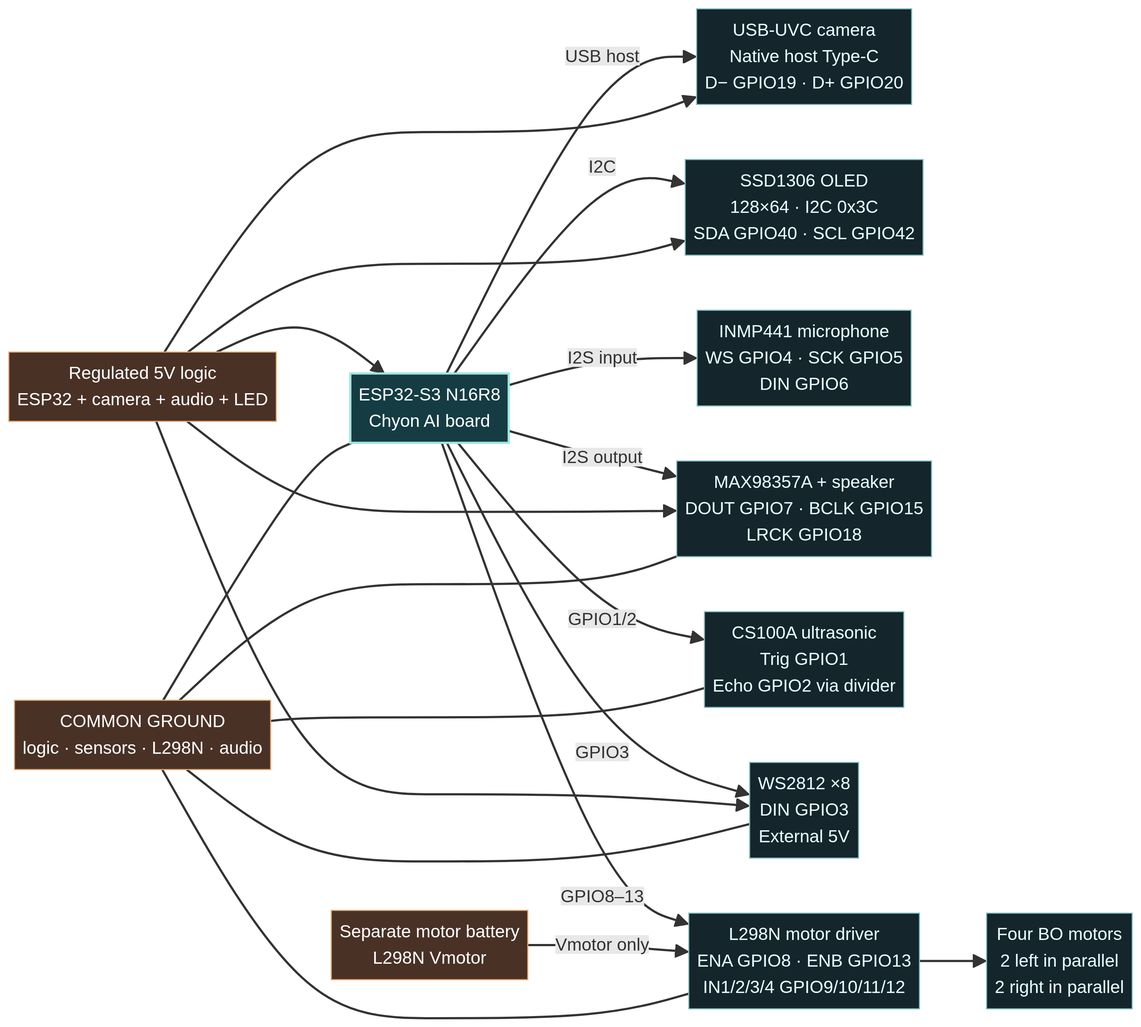
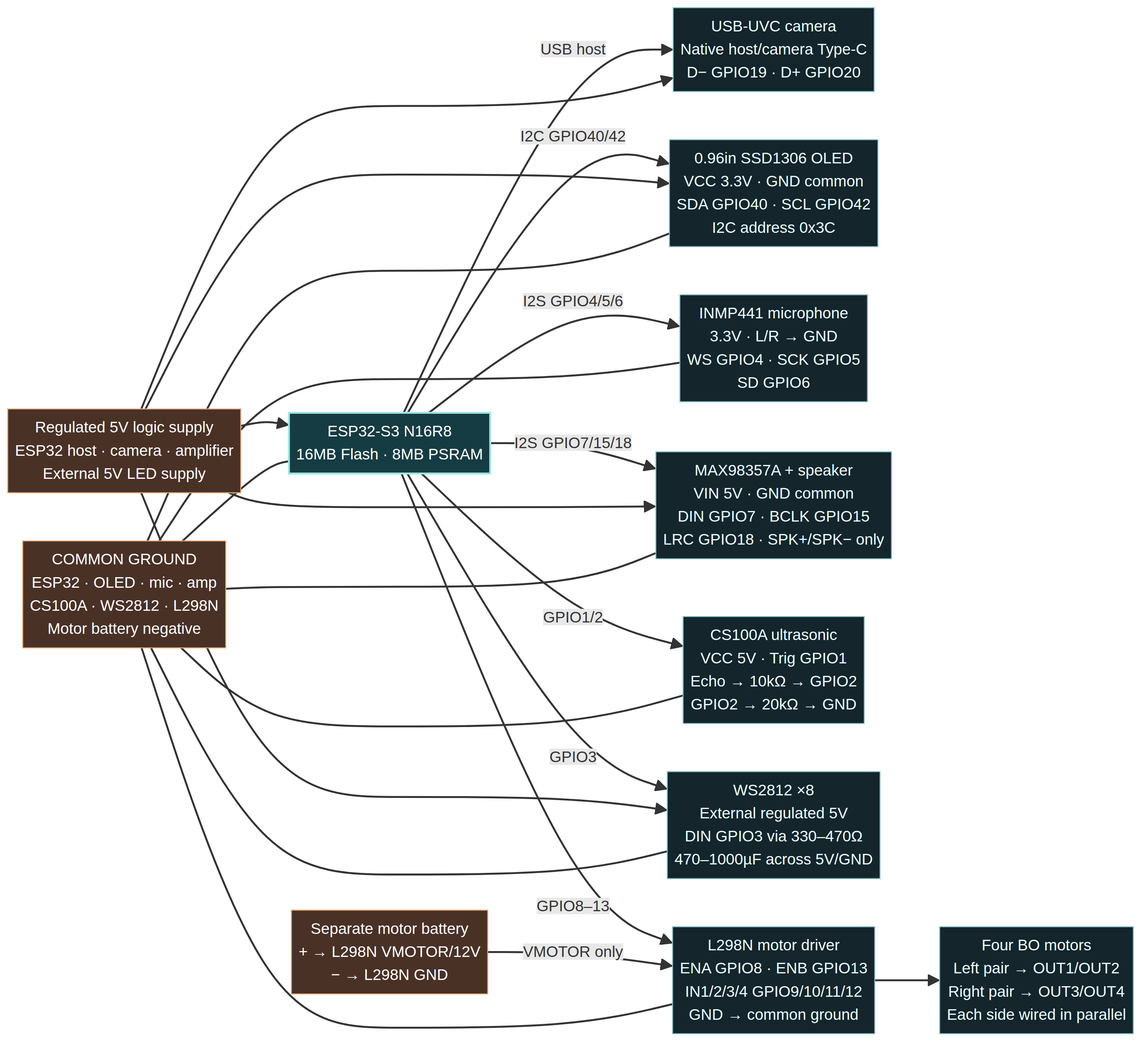
Expand Chyon robot wiring and safety guide

diff --git a/client/src/App.tsx b/client/src/App.tsx
@@ -741,9 +741,9 @@ function ProjectMatchProducts({ products, navigate, addToCart, language, matchId
 function ChyonRobotProjectPage({ navigate, language, products, addToCart }: { navigate: (path: string) => void; language: Language; products: Product[]; addToCart: (productId: string, qty?: number, variantId?: string, source?: HTMLElement) => void }) {
   const bn = language === "bn";
   const text = bn ? {
-    crumb: "Chyon AI Robot", eyebrow: "Chyon AI robotics build", title: <>Voice-controlled <em>4-wheel robot.</em></>, hero: "ESP32-S3 N16R8, USB camera, OLED, voice AI, ultrasonic obstacle guard এবং L298N motor control—একটি সম্পূর্ণ robot project।", guideButton: "Robot guide দেখুন", flashButton: "Robot firmware flash করুন", camera: "USB-UVC camera", cameraSmall: "Native camera/host Type-C port", drive: "Four-wheel drive", driveSmall: "L298N digital motor control", safety: "Obstacle guard", safetySmall: "Forward stop below 25 cm", overviewTitle: "এই project-এ কী আছে", overviewTag: "Source package v2.5.0", overview: "এই source project থেকে build করা merged firmware-এ Chyon AI voice assistant, USB camera, SSD1306 OLED, INMP441 microphone, MAX98357A amplifier এবং চার চাকার robot control একসঙ্গে আছে।", features: ["XiaoZhi MCP-এর মাধ্যমে voice command", "Native USB host-এ camera vision", "8-pixel WS2812 status panel", "1–5 সেকেন্ড সীমিত movement"], partsTitle: "যা যা লাগবে", partsTag: "Build checklist", parts: ["Native USB host-সহ ESP32-S3 N16R8 board", "USB-UVC camera এবং 0.96-inch SSD1306 OLED", "INMP441 microphone + MAX98357A amplifier", "CS100A ultrasonic sensor", "WS2812 ×8 panel + L298N + চারটি BO motor", "আলাদা regulated 5V logic এবং motor battery supply"], flashEyebrow: "Verified complete image", flashTitle: "Chyon AI robot firmware flash করুন।", flashCopy: <>এই page-এ ZIP-এর <code>build/flasher_args.json</code> অনুযায়ী পাঁচটি verified binary exact offset-এ লেখা হবে—partial app বা guessed merged image নয়।</>, flashNotes: ["ESP32-S3 · 16MB flash", "DIO · 80MHz", "Flash-এর পরে reset"], guideEyebrow: "Electronics Dokan robot guide", guideTitle: "সঠিকভাবে wire করুন, একবার flash করুন, ধাপে ধাপে test করুন।", guideIntro: "আপনার ZIP-এর source config, build metadata এবং safety notes এক জায়গায় দেওয়া হলো।", flashSection: "01 · FLASHING", flashHeading: "Exact five-part flash map ব্যবহার করুন", flashSteps: ["Data-capable USB cable-সহ desktop Chrome বা Edge ব্যবহার করুন।", "ESP32-S3 port authorize করে Electronics Dokan-এর port select করুন।", "Erase complete flash এবং Reset board after flash চালু রাখুন।", "16MB / DIO / 80MHz settings-এ exact five-part flash map লিখুন।", "‘Flash complete · board ready’ দেখা পর্যন্ত অপেক্ষা করে 115200 baud boot log পড়ুন।"], flashCallout: <>শুধু <code>xiaozhi.bin</code> flash করবেন না। Source manifest-এ bootloader, app, partition table, OTA data এবং assets আলাদা offset-এ আছে; এই page exact পাঁচটি file original offset-এ লিখবে।</>, diagramSection: "02 · CIRCUIT DIAGRAM", diagramHeading: "Chyon board source অনুযায়ী exact wiring", diagramCopy: <>এই diagram-টি ZIP-এর <code>config.h</code>, board implementation এবং audio/display initialization থেকে তৈরি। লাল power line-এ motor battery সরাসরি ESP32-তে দেবেন না।</>, echoCallout: <>CS100A Echo অবশ্যই voltage divider দিয়ে GPIO2-এ দিন: sensor Echo → 10kΩ → GPIO2, GPIO2 → 20kΩ → GND। Echo-তে সরাসরি 5V দিলে ESP32-S3 নষ্ট হতে পারে।</>, audioSection: "03 · AUDIO & DISPLAY", audioHeading: "Core voice hardware", audioRows: [["INMP441", "WS GPIO4 · SCK GPIO5 · DIN GPIO6"], ["MAX98357A", "DOUT GPIO7 · BCLK GPIO15 · LRCK GPIO18"], ["SSD1306 OLED", "I2C SDA GPIO40 · SCL GPIO42 · 128×64"], ["Camera", "Native USB D− GPIO19 · D+ GPIO20 · 5V host port"]], robotSection: "04 · ROBOT CONTROL", robotHeading: "Motor, sensor এবং LED pins", robotRows: [["CS100A", "TRIG → GPIO1 · ECHO → GPIO2 through 10kΩ/20kΩ divider"], ["WS2812 ×8", "DIN → GPIO3 · 5V external supply · common GND"], ["L298N ENA/ENB", "ENA → GPIO8 · ENB → GPIO13"], ["L298N direction", "IN1 → GPIO9 · IN2 → GPIO10 · IN3 → GPIO11 · IN4 → GPIO12"], ["Motor safety", "25cm-এর কম হলে forward blocked; movement সর্বোচ্চ 5 সেকেন্ড"]], powerSection: "05 · POWER & SAFE TEST", powerHeading: "ধাপে ধাপে robot চালু করুন", powerSteps: ["Motor battery ছাড়া ESP32, OLED, microphone, amplifier এবং camera boot করুন।", "Serial boot output এবং Chyon AI-XXXX setup AP নিশ্চিত করুন।", "Echo voltage divider বসান; GPIO2 5V tolerant নয়।", "সম্ভব হলে WS2812-এ level shifter এবং 470–1000µF capacitor দিন।", "L298N-এর motor power আলাদা রাখুন; সব ground common করুন।", "Forward/backward/left/right test-এর সময় wheel মাটি থেকে তুলে রাখুন।"], powerCallout: "Camera, amplifier, LED এবং motor brownout ঘটাতে পারে। Logic/audio/camera-র জন্য প্রায় 2A regulated 5V এবং L298N-এর জন্য আলাদা motor battery ব্যবহার করুন।", wifiSection: "06 · WI-FI FIRST BOOT", wifiHeading: "Wi-Fi network কোথায় পাবেন?", wifiIntro: <>এই firmware-এর setup AP হলো <b>Chyon AI-XXXX</b>—পুরনো XiaoZhi নাম নয়। XXXX হলো board-এর Wi-Fi MAC address-এর শেষ দুই byte; প্রতিটি board-এ নাম আলাদা হতে পারে।</>, wifiSteps: ["Flash শেষ হলে serial monitor-এ WiFi config mode entered বা একই ধরনের message আসা পর্যন্ত অপেক্ষা করুন।", "Phone-এর Wi-Fi list refresh করে Chyon AI-XXXX খুঁজুন। Android-এ Wi-Fi scanning refresh করুন; iPhone-এ Wi-Fi page বন্ধ করে আবার খুলুন।", <>AP-তে connect করে <code>http://192.168.4.1</code> খুলুন; password না থাকলে সরাসরি connect হবে।</>, "Wi-Fi Config-এ 2.4GHz router select করে password save করুন; 5GHz-only network কাজ করবে না।", "আগে ভুল Wi-Fi save থাকলে startup-এর সময় BOOT button একবার চাপুন—source code অনুযায়ী config mode আবার শুরু হবে।"], wifiCallout: <>AP একেবারেই না দেখা গেলে serial monitor-এ boot log দেখুন। <code>ChyonS3Robot</code>, OLED initialization এবং Wi-Fi config log না এলে application boot করেনি; erase complete flash, data cable এবং যথেষ্ট 5V power দিয়ে আবার চেষ্টা করুন।</>, commandSection: "07 · AI COMMANDS", commandHeading: "Available robot tools", commands: [["self.robot.move", "forward, backward, left, right"], ["self.robot.stop", "চারটি motor সঙ্গে সঙ্গে stop"], ["self.robot.get_distance", "distance cm-এ পড়ুন"], ["self.robot.set_led", "সব 8টি RGB pixel set করুন"]], troubleSection: "08 · TROUBLESHOOTING", troubleHeading: "Robot boot না করলে", troubles: [["No flash", "Arduino/serial tools বন্ধ করে correct port authorize করুন এবং reconnect-এর সময় BOOT ধরে রাখুন।"], ["No Wi-Fi AP", "Chyon AI-XXXX খুঁজুন; serial monitor-এ config mode log না এলে erase করে আবার flash করুন।"], ["No camera", "UART-only port নয়—native USB host/camera Type-C port ব্যবহার করুন।"], ["Brownout/reset", "Motor power আলাদা করুন, 5V wiring ছোট করুন এবং amplifier/LED current পরীক্ষা করুন।"]]
+    crumb: "Chyon AI Robot", eyebrow: "Chyon AI robotics build", title: <>Voice-controlled <em>4-wheel robot.</em></>, hero: "ESP32-S3 N16R8, USB camera, OLED, voice AI, ultrasonic obstacle guard এবং L298N motor control—একটি সম্পূর্ণ robot project।", guideButton: "Robot guide দেখুন", flashButton: "Robot firmware flash করুন", camera: "USB-UVC camera", cameraSmall: "Native camera/host Type-C port", drive: "Four-wheel drive", driveSmall: "L298N digital motor control", safety: "Obstacle guard", safetySmall: "Forward stop below 25 cm", overviewTitle: "এই project-এ কী আছে", overviewTag: "Source package v2.5.0", overview: "এই source project থেকে build করা merged firmware-এ Chyon AI voice assistant, USB camera, SSD1306 OLED, INMP441 microphone, MAX98357A amplifier এবং চার চাকার robot control একসঙ্গে আছে।", features: ["XiaoZhi MCP-এর মাধ্যমে voice command", "Native USB host-এ camera vision", "8-pixel WS2812 status panel", "1–5 সেকেন্ড সীমিত movement"], partsTitle: "যা যা লাগবে", partsTag: "Build checklist", parts: ["Native USB host-সহ ESP32-S3 N16R8 board", "USB-UVC camera এবং 0.96-inch SSD1306 OLED", "INMP441 microphone + MAX98357A amplifier", "CS100A ultrasonic sensor", "WS2812 ×8 panel + L298N + চারটি BO motor", "আলাদা regulated 5V logic এবং motor battery supply"], flashEyebrow: "Verified complete image", flashTitle: "Chyon AI robot firmware flash করুন।", flashCopy: <>এই page-এ ZIP-এর <code>build/flasher_args.json</code> অনুযায়ী পাঁচটি verified binary exact offset-এ লেখা হবে—partial app বা guessed merged image নয়।</>, flashNotes: ["ESP32-S3 · 16MB flash", "DIO · 80MHz", "Flash-এর পরে reset"], guideEyebrow: "Electronics Dokan robot guide", guideTitle: "সঠিকভাবে wire করুন, একবার flash করুন, ধাপে ধাপে test করুন।", guideIntro: "আপনার ZIP-এর source config, build metadata এবং safety notes এক জায়গায় দেওয়া হলো।", flashSection: "01 · FLASHING", flashHeading: "Exact five-part flash map ব্যবহার করুন", flashSteps: ["Data-capable USB cable-সহ desktop Chrome বা Edge ব্যবহার করুন।", "ESP32-S3 port authorize করে Electronics Dokan-এর port select করুন।", "Erase complete flash এবং Reset board after flash চালু রাখুন।", "16MB / DIO / 80MHz settings-এ exact five-part flash map লিখুন।", "‘Flash complete · board ready’ দেখা পর্যন্ত অপেক্ষা করে 115200 baud boot log পড়ুন।"], flashCallout: <>শুধু <code>xiaozhi.bin</code> flash করবেন না। Source manifest-এ bootloader, app, partition table, OTA data এবং assets আলাদা offset-এ আছে; এই page exact পাঁচটি file original offset-এ লিখবে।</>, diagramSection: "02 · CIRCUIT DIAGRAM", diagramHeading: "Chyon board source অনুযায়ী exact wiring", diagramCopy: <>এই diagram-টি ZIP-এর <code>config.h</code>, board implementation এবং audio/display initialization থেকে তৈরি। OLED-এর I2C address সাধারণত 0x3C; INMP441-এর L/R GND-তে দিন এবং speaker শুধু MAX98357A-এর SPK+ / SPK−-এ লাগান। Motor battery কখনো ESP32-তে সরাসরি দেবেন না।</>, echoCallout: <>CS100A Echo অবশ্যই voltage divider দিয়ে GPIO2-এ দিন: sensor Echo → 10kΩ → GPIO2, GPIO2 → 20kΩ → GND। Echo-তে সরাসরি 5V দিলে ESP32-S3 নষ্ট হতে পারে। WS2812 DIN-এ 330–470Ω resistor এবং 5V/GND-এর মাঝে 470–1000µF capacitor ব্যবহার করুন।</>, audioSection: "03 · AUDIO & DISPLAY", audioHeading: "Core voice hardware", audioRows: [["INMP441", "WS GPIO4 · SCK GPIO5 · SD GPIO6 · L/R → GND"], ["MAX98357A", "DIN GPIO7 · BCLK GPIO15 · LRC GPIO18 · speaker → SPK+/SPK−"], ["SSD1306 OLED", "VCC 3.3V · I2C SDA GPIO40 · SCL GPIO42 · address 0x3C"], ["Camera", "Native USB D− GPIO19 · D+ GPIO20 · host/camera Type-C port"]], robotSection: "04 · ROBOT CONTROL", robotHeading: "Motor, sensor এবং LED pins", robotRows: [["CS100A", "TRIG → GPIO1 · ECHO → GPIO2 through 10kΩ/20kΩ divider"], ["WS2812 ×8", "DIN → GPIO3 via 330–470Ω · external 5V · common GND"], ["L298N ENA/ENB", "ENA → GPIO8 · ENB → GPIO13"], ["L298N direction", "IN1 → GPIO9 · IN2 → GPIO10 · IN3 → GPIO11 · IN4 → GPIO12"], ["Motor outputs", "Left pair parallel → OUT1/OUT2 · right pair parallel → OUT3/OUT4"], ["Motor safety", "25cm-এর কম হলে forward blocked; movement সর্বোচ্চ 5 সেকেন্ড"]], powerSection: "05 · POWER & SAFE TEST", powerHeading: "ধাপে ধাপে robot চালু করুন", powerSteps: ["Motor battery ছাড়া ESP32, OLED, microphone, amplifier এবং camera boot করুন।", "Serial boot output এবং Chyon AI-XXXX setup AP নিশ্চিত করুন।", "Echo voltage divider বসান; GPIO2 5V tolerant নয়।", "WS2812 DIN-এ 330–470Ω resistor, 5V/GND-এ 470–1000µF capacitor এবং সম্ভব হলে level shifter দিন।", "L298N-এর motor power আলাদা রাখুন; সব ground common করুন।", "L298N-এর 5V output ESP32-এর 3.3V pin-এ দেবেন না; নির্দিষ্ট module-এর jumper schematic দেখে ব্যবহার করুন।", "Forward/backward/left/right test-এর সময় wheel মাটি থেকে তুলে রাখুন।"], powerCallout: "Camera, amplifier, LED এবং motor brownout ঘটাতে পারে। Logic/audio/camera-র জন্য প্রায় 2A regulated 5V এবং L298N-এর জন্য আলাদা motor battery ব্যবহার করুন। Motor battery ESP32-এর USB/5V pin-এ দেবেন না; battery negative এবং L298N/ESP32 GND common রাখুন।", wifiSection: "06 · WI-FI FIRST BOOT", wifiHeading: "Wi-Fi network কোথায় পাবেন?", wifiIntro: <>এই firmware-এর setup AP হলো <b>Chyon AI-XXXX</b>—পুরনো XiaoZhi নাম নয়। XXXX হলো board-এর Wi-Fi MAC address-এর শেষ দুই byte; প্রতিটি board-এ নাম আলাদা হতে পারে।</>, wifiSteps: ["Flash শেষ হলে serial monitor-এ WiFi config mode entered বা একই ধরনের message আসা পর্যন্ত অপেক্ষা করুন।", "Phone-এর Wi-Fi list refresh করে Chyon AI-XXXX খুঁজুন। Android-এ Wi-Fi scanning refresh করুন; iPhone-এ Wi-Fi page বন্ধ করে আবার খুলুন।", <>AP-তে connect করে <code>http://192.168.4.1</code> খুলুন; password না থাকলে সরাসরি connect হবে।</>, "Wi-Fi Config-এ 2.4GHz router select করে password save করুন; 5GHz-only network কাজ করবে না।", "আগে ভুল Wi-Fi save থাকলে startup-এর সময় BOOT button একবার চাপুন—source code অনুযায়ী config mode আবার শুরু হবে।"], wifiCallout: <>AP একেবারেই না দেখা গেলে serial monitor-এ boot log দেখুন। <code>ChyonS3Robot</code>, OLED initialization এবং Wi-Fi config log না এলে application boot করেনি; erase complete flash, data cable এবং যথেষ্ট 5V power দিয়ে আবার চেষ্টা করুন।</>, commandSection: "07 · AI COMMANDS", commandHeading: "Available robot tools", commands: [["self.robot.move", "forward, backward, left, right"], ["self.robot.stop", "চারটি motor সঙ্গে সঙ্গে stop"], ["self.robot.get_distance", "distance cm-এ পড়ুন"], ["self.robot.set_led", "সব 8টি RGB pixel set করুন"]], troubleSection: "08 · TROUBLESHOOTING", troubleHeading: "Robot boot না করলে", troubles: [["No flash", "Arduino/serial tools বন্ধ করে correct port authorize করুন এবং reconnect-এর সময় BOOT ধরে রাখুন।"], ["No Wi-Fi AP", "Chyon AI-XXXX খুঁজুন; serial monitor-এ config mode log না এলে erase করে আবার flash করুন।"], ["No camera", "UART-only port নয়—native USB host/camera Type-C port ব্যবহার করুন।"], ["Brownout/reset", "Motor power আলাদা করুন, 5V wiring ছোট করুন এবং amplifier/LED current পরীক্ষা করুন।"]]
   } : {
-    crumb: "Chyon AI Robot", eyebrow: "Chyon AI robotics build", title: <>Voice-controlled <em>4-wheel robot.</em></>, hero: "A complete Chyon AI robot built around an ESP32-S3 N16R8 with USB-UVC camera, OLED, voice AI, ultrasonic obstacle protection and four-wheel L298N control.", guideButton: "Read robot guide", flashButton: "Flash robot firmware", camera: "USB-UVC camera", cameraSmall: "Native camera/host Type-C port", drive: "Four-wheel drive", driveSmall: "L298N digital motor control", safety: "Obstacle guard", safetySmall: "Forward stop below 25 cm", overviewTitle: "What this project includes", overviewTag: "Source package v2.5.0", overview: "The supplied source project combines the Chyon AI voice assistant, USB-UVC camera, SSD1306 OLED, INMP441 microphone, MAX98357A amplifier and four-wheel robot control in one firmware image.", features: ["Voice commands through XiaoZhi MCP", "Camera vision on native USB host", "8-pixel WS2812 status panel", "Bounded 1–5 second movement"], partsTitle: "Required hardware", partsTag: "Build checklist", parts: ["ESP32-S3 N16R8 board with native USB host", "USB-UVC camera and 0.96-inch SSD1306 OLED", "INMP441 microphone + MAX98357A amplifier", "CS100A ultrasonic sensor", "WS2812 ×8 panel + L298N + four BO motors", "Separate regulated 5V logic and motor battery supply"], flashEyebrow: "Verified complete image", flashTitle: "Flash the Chyon AI robot firmware.", flashCopy: <>This page uses the ZIP's exact five-file <code>build/flasher_args.json</code> map—not a partial app binary or guessed merged image—and writes every artifact at its original ESP-IDF offset.</>, flashNotes: ["ESP32-S3 · 16MB flash", "DIO · 80MHz", "Reset after flash"], guideEyebrow: "Electronics Dokan robot guide", guideTitle: "Wire safely, flash once, test in stages.", guideIntro: "The source config, build metadata and safety notes from your ZIP are collected here.", flashSection: "01 · FLASHING", flashHeading: "Use the exact five-part flash map", flashSteps: ["Use desktop Chrome or Edge with a data-capable USB cable.", "Authorize and select the ESP32-S3 port for Electronics Dokan.", "Keep Erase complete flash and Reset board after flash enabled.", "Write the exact five-part flash map using 16MB / DIO / 80MHz settings.", "Wait for ‘Flash complete · board ready’, then read the boot log at 115200 baud."], flashCallout: <>Do not flash <code>xiaozhi.bin</code> alone. The source manifest places bootloader, app, partition table, OTA data and assets at different offsets; this page writes all five files at their original offsets.</>, diagramSection: "02 · CIRCUIT DIAGRAM", diagramHeading: "Exact wiring from the Chyon board source", diagramCopy: <>This diagram is derived from the ZIP's <code>config.h</code>, board implementation and audio/display initialization. Never connect the motor battery directly to the ESP32.</>, echoCallout: <>Connect CS100A Echo through a voltage divider: sensor Echo → 10kΩ → GPIO2, GPIO2 → 20kΩ → GND. Do not put 5V directly into an ESP32-S3 GPIO.</>, audioSection: "03 · AUDIO & DISPLAY", audioHeading: "Core voice hardware", audioRows: [["INMP441", "WS GPIO4 · SCK GPIO5 · DIN GPIO6"], ["MAX98357A", "DOUT GPIO7 · BCLK GPIO15 · LRCK GPIO18"], ["SSD1306 OLED", "I2C SDA GPIO40 · SCL GPIO42 · 128×64"], ["Camera", "Native USB D− GPIO19 · D+ GPIO20 · 5V host port"]], robotSection: "04 · ROBOT CONTROL", robotHeading: "Motor, sensor and LED pins", robotRows: [["CS100A", "TRIG → GPIO1 · ECHO → GPIO2 through 10kΩ/20kΩ divider"], ["WS2812 ×8", "DIN → GPIO3 · 5V external supply · common GND"], ["L298N ENA/ENB", "ENA → GPIO8 · ENB → GPIO13"], ["L298N direction", "IN1 → GPIO9 · IN2 → GPIO10 · IN3 → GPIO11 · IN4 → GPIO12"], ["Motor safety", "Forward blocked below 25cm; movement max 5 seconds"]], powerSection: "05 · POWER & SAFE TEST", powerHeading: "Bring the robot up in stages", powerSteps: ["Boot the ESP32, OLED, microphone, amplifier and camera without motor battery.", "Confirm serial boot output and the Chyon AI-XXXX setup AP.", "Install the Echo voltage divider; GPIO2 is not 5V tolerant.", "Use a level shifter for WS2812 where possible and add a 470–1000µF capacitor.", "Use separate motor power for L298N; keep all grounds common.", "Lift the wheels before testing forward, backward, left and right."], powerCallout: "A camera, amplifier, LEDs and motors can cause brownouts. Use regulated 5V around 2A for logic/audio/camera and a separate motor battery for L298N.", wifiSection: "06 · WI-FI FIRST BOOT", wifiHeading: "Where is the Wi-Fi network?", wifiIntro: <>This firmware's setup AP is <b>Chyon AI-XXXX</b>—not the old XiaoZhi name. XXXX is the last two bytes of the board Wi-Fi MAC address, so each board can have a different suffix.</>, wifiSteps: ["After flashing, wait for WiFi config mode entered or a similar config message in the serial monitor.", "Refresh the phone Wi-Fi list and look for Chyon AI-XXXX. Refresh Wi-Fi scanning on Android; close and reopen the Wi-Fi page on iPhone.", <>Connect to the AP and open <code>http://192.168.4.1</code>; no password is required.</>, "In Wi-Fi Config, select a 2.4GHz router and save its password; 5GHz-only networks will not work.", "If old credentials were saved, press BOOT once during startup; the source enters config mode again."], wifiCallout: <>If the AP never appears, read the boot log first. If <code>ChyonS3Robot</code>, OLED initialization and Wi-Fi config logs are absent, the application did not boot; erase completely and retry with a data cable and adequate 5V power.</>, commandSection: "07 · AI COMMANDS", commandHeading: "Available robot tools", commands: [["self.robot.move", "forward, backward, left, right"], ["self.robot.stop", "stop all four motors"], ["self.robot.get_distance", "read distance in cm"], ["self.robot.set_led", "set all 8 RGB pixels"]], troubleSection: "08 · TROUBLESHOOTING", troubleHeading: "If the robot does not boot", troubles: [["No flash", "Close Arduino/serial tools, authorize the correct port and hold BOOT while reconnecting."], ["No Wi-Fi AP", "Look for Chyon AI-XXXX; if config mode is absent in serial, erase and flash again."], ["No camera", "Use the native USB host/camera Type-C port, not the UART-only port."], ["Brownout/reset", "Separate motor power, shorten 5V wiring and check amplifier/LED current."]]
+    crumb: "Chyon AI Robot", eyebrow: "Chyon AI robotics build", title: <>Voice-controlled <em>4-wheel robot.</em></>, hero: "A complete Chyon AI robot built around an ESP32-S3 N16R8 with USB-UVC camera, OLED, voice AI, ultrasonic obstacle protection and four-wheel L298N control.", guideButton: "Read robot guide", flashButton: "Flash robot firmware", camera: "USB-UVC camera", cameraSmall: "Native camera/host Type-C port", drive: "Four-wheel drive", driveSmall: "L298N digital motor control", safety: "Obstacle guard", safetySmall: "Forward stop below 25 cm", overviewTitle: "What this project includes", overviewTag: "Source package v2.5.0", overview: "The supplied source project combines the Chyon AI voice assistant, USB-UVC camera, SSD1306 OLED, INMP441 microphone, MAX98357A amplifier and four-wheel robot control in one firmware image.", features: ["Voice commands through XiaoZhi MCP", "Camera vision on native USB host", "8-pixel WS2812 status panel", "Bounded 1–5 second movement"], partsTitle: "Required hardware", partsTag: "Build checklist", parts: ["ESP32-S3 N16R8 board with native USB host", "USB-UVC camera and 0.96-inch SSD1306 OLED", "INMP441 microphone + MAX98357A amplifier", "CS100A ultrasonic sensor", "WS2812 ×8 panel + L298N + four BO motors", "Separate regulated 5V logic and motor battery supply"], flashEyebrow: "Verified complete image", flashTitle: "Flash the Chyon AI robot firmware.", flashCopy: <>This page uses the ZIP's exact five-file <code>build/flasher_args.json</code> map—not a partial app binary or guessed merged image—and writes every artifact at its original ESP-IDF offset.</>, flashNotes: ["ESP32-S3 · 16MB flash", "DIO · 80MHz", "Reset after flash"], guideEyebrow: "Electronics Dokan robot guide", guideTitle: "Wire safely, flash once, test in stages.", guideIntro: "The source config, build metadata and safety notes from your ZIP are collected here.", flashSection: "01 · FLASHING", flashHeading: "Use the exact five-part flash map", flashSteps: ["Use desktop Chrome or Edge with a data-capable USB cable.", "Authorize and select the ESP32-S3 port for Electronics Dokan.", "Keep Erase complete flash and Reset board after flash enabled.", "Write the exact five-part flash map using 16MB / DIO / 80MHz settings.", "Wait for ‘Flash complete · board ready’, then read the boot log at 115200 baud."], flashCallout: <>Do not flash <code>xiaozhi.bin</code> alone. The source manifest places bootloader, app, partition table, OTA data and assets at different offsets; this page writes all five files at their original offsets.</>, diagramSection: "02 · CIRCUIT DIAGRAM", diagramHeading: "Exact wiring from the Chyon board source", diagramCopy: <>This diagram is derived from the ZIP's <code>config.h</code>, board implementation and audio/display initialization. The OLED is normally I2C address 0x3C; connect INMP441 L/R to GND and connect the speaker only to MAX98357A SPK+ / SPK−. Never connect the motor battery directly to the ESP32.</>, echoCallout: <>Connect CS100A Echo through a voltage divider: sensor Echo → 10kΩ → GPIO2, GPIO2 → 20kΩ → GND. Do not put 5V directly into an ESP32-S3 GPIO. Add a 330–470Ω resistor in series with WS2812 DIN and a 470–1000µF capacitor across its 5V/GND.</>, audioSection: "03 · AUDIO & DISPLAY", audioHeading: "Core voice hardware", audioRows: [["INMP441", "WS GPIO4 · SCK GPIO5 · SD GPIO6 · L/R → GND"], ["MAX98357A", "DIN GPIO7 · BCLK GPIO15 · LRC GPIO18 · speaker → SPK+/SPK−"], ["SSD1306 OLED", "3.3V · I2C SDA GPIO40 · SCL GPIO42 · 128×64 · 0x3C"], ["Camera", "Native USB D− GPIO19 · D+ GPIO20 · host/camera Type-C port"]], robotSection: "04 · ROBOT CONTROL", robotHeading: "Motor, sensor and LED pins", robotRows: [["CS100A", "TRIG → GPIO1 · ECHO → GPIO2 through 10kΩ/20kΩ divider"], ["WS2812 ×8", "DIN → GPIO3 via 330–470Ω · external 5V · common GND"], ["L298N ENA/ENB", "ENA → GPIO8 · ENB → GPIO13"], ["L298N direction", "IN1 → GPIO9 · IN2 → GPIO10 · IN3 → GPIO11 · IN4 → GPIO12"], ["Motor outputs", "Left pair parallel → OUT1/OUT2 · right pair parallel → OUT3/OUT4"], ["Motor safety", "Forward blocked below 25cm; movement max 5 seconds"]], powerSection: "05 · POWER & SAFE TEST", powerHeading: "Bring the robot up in stages", powerSteps: ["Boot the ESP32, OLED, microphone, amplifier and camera without motor battery.", "Confirm serial boot output and the Chyon AI-XXXX setup AP.", "Install the Echo voltage divider; GPIO2 is not 5V tolerant.", "Add a 330–470Ω WS2812 data resistor, 470–1000µF capacitor and a level shifter where possible.", "Use separate motor power for L298N; keep all grounds common.", "Never feed the L298N 5V output into the ESP32 3.3V pin; check the module's jumper schematic.", "Lift the wheels before testing forward, backward, left and right."], powerCallout: "A camera, amplifier, LEDs and motors can cause brownouts. Use regulated 5V around 2A for logic/audio/camera and a separate motor battery for L298N. Do not connect motor battery to the ESP32 USB/5V pin; common the battery negative with L298N and ESP32 GND.", wifiSection: "06 · WI-FI FIRST BOOT", wifiHeading: "Where is the Wi-Fi network?", wifiIntro: <>This firmware's setup AP is <b>Chyon AI-XXXX</b>—not the old XiaoZhi name. XXXX is the last two bytes of the board Wi-Fi MAC address, so each board can have a different suffix.</>, wifiSteps: ["After flashing, wait for WiFi config mode entered or a similar config message in the serial monitor.", "Refresh the phone Wi-Fi list and look for Chyon AI-XXXX. Refresh Wi-Fi scanning on Android; close and reopen the Wi-Fi page on iPhone.", <>Connect to the AP and open <code>http://192.168.4.1</code>; no password is required.</>, "In Wi-Fi Config, select a 2.4GHz router and save its password; 5GHz-only networks will not work.", "If old credentials were saved, press BOOT once during startup; the source enters config mode again."], wifiCallout: <>If the AP never appears, read the boot log first. If <code>ChyonS3Robot</code>, OLED initialization and Wi-Fi config logs are absent, the application did not boot; erase completely and retry with a data cable and adequate 5V power.</>, commandSection: "07 · AI COMMANDS", commandHeading: "Available robot tools", commands: [["self.robot.move", "forward, backward, left, right"], ["self.robot.stop", "stop all four motors"], ["self.robot.get_distance", "read distance in cm"], ["self.robot.set_led", "set all 8 RGB pixels"]], troubleSection: "08 · TROUBLESHOOTING", troubleHeading: "If the robot does not boot", troubles: [["No flash", "Close Arduino/serial tools, authorize the correct port and hold BOOT while reconnecting."], ["No Wi-Fi AP", "Look for Chyon AI-XXXX; if config mode is absent in serial, erase and flash again."], ["No camera", "Use the native USB host/camera Type-C port, not the UART-only port."], ["Brownout/reset", "Separate motor power, shorten 5V wiring and check amplifier/LED current."]]
   };
   return <div className="page-wrap project-detail-page robot-project-page"><div className="container breadcrumb"><button onClick={() => navigate("/")}>{bn ? "হোম" : "Home"}</button><ChevronRight size={14} /><button onClick={() => navigate("/projects")}>{bn ? "প্রজেক্ট" : "Projects"}</button><ChevronRight size={14} /><span>{text.crumb}</span></div>
     <section className="container project-hero"><div className="project-hero-copy"><div className="eyebrow"><span className="eyebrow-line" /> {text.eyebrow}</div><h1>{text.title}</h1><p>{text.hero}</p><div className="project-hero-actions"><button className="button button-primary" onClick={() => document.getElementById("robot-guide")?.scrollIntoView({ behavior: "smooth" })}>{text.guideButton} <ArrowRight size={16} /></button><button className="button button-ghost-dark" onClick={() => document.getElementById("robot-flasher")?.scrollIntoView({ behavior: "smooth" })}>{text.flashButton} <ArrowRight size={16} /></button></div></div><div className="project-hero-art"><div className="project-orbit project-orbit-one" /><div className="project-orbit project-orbit-two" /><div className="project-chip"><Cpu size={44} /><span>ESP32-S3</span><small>CAMERA / AI / ROBOT</small></div><div className="project-art-label project-art-label-one">4-wheel drive</div><div className="project-art-label project-art-label-two">25 cm safety stop</div></div></section>
